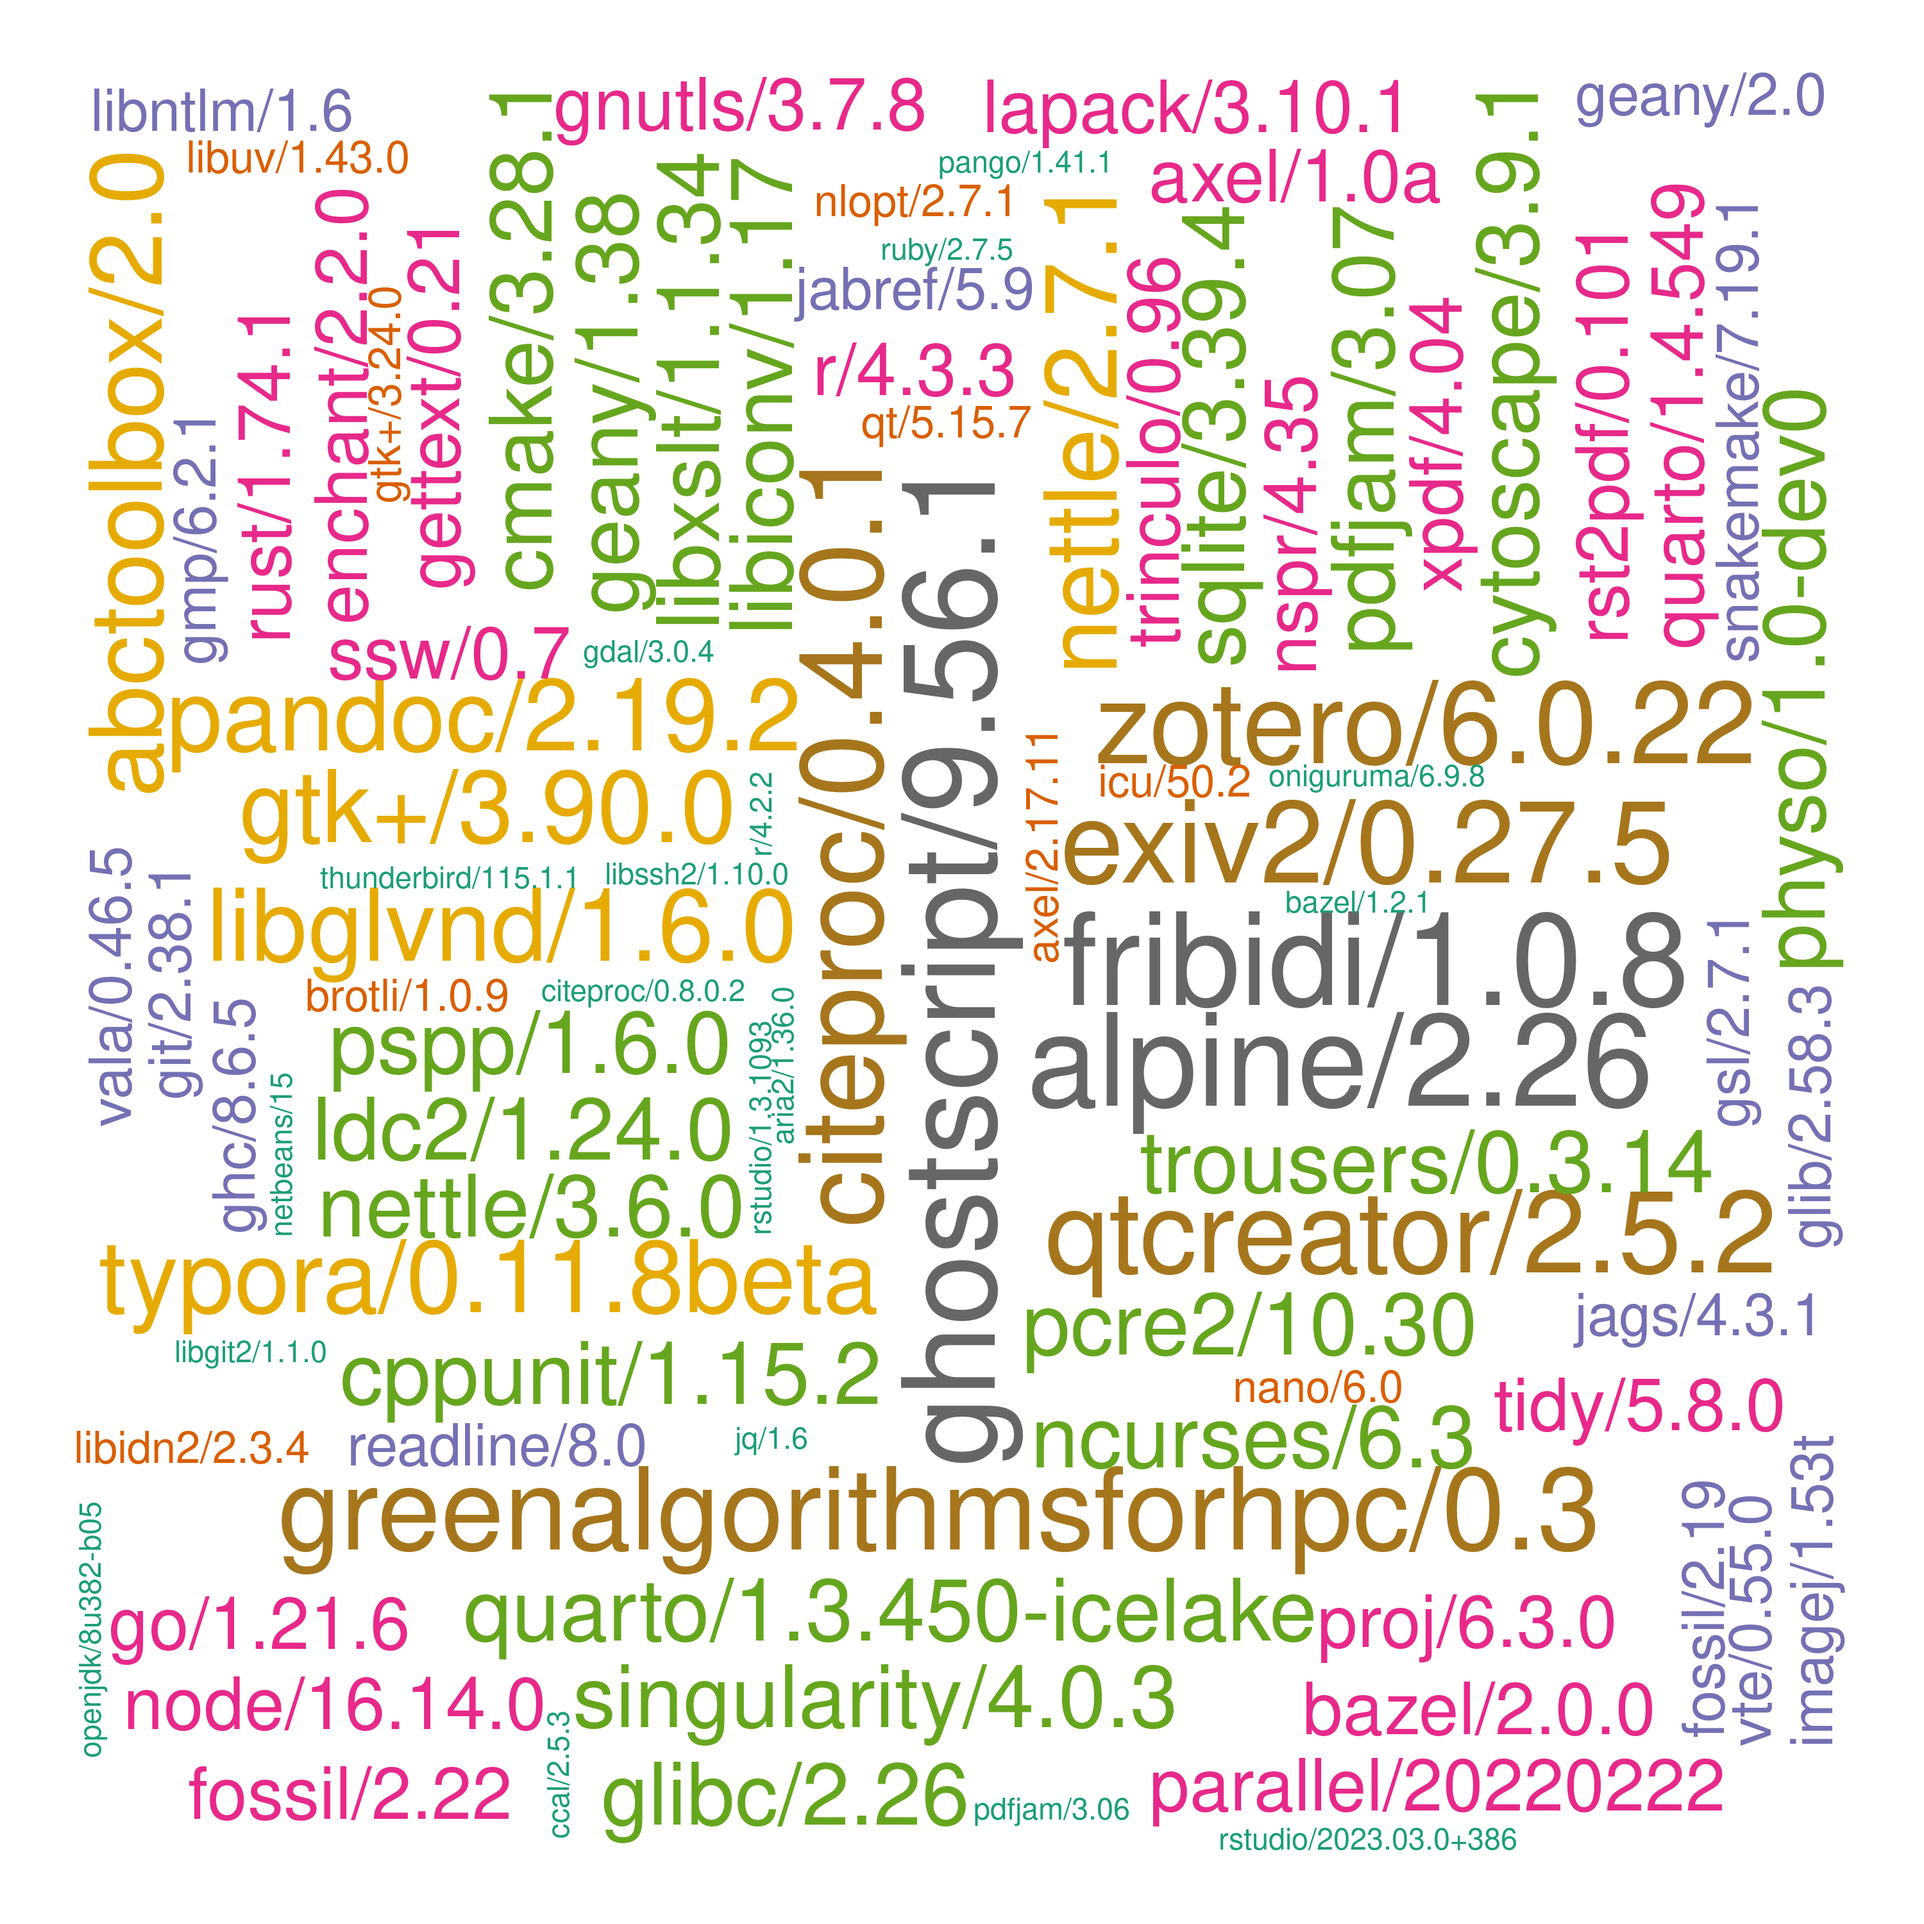
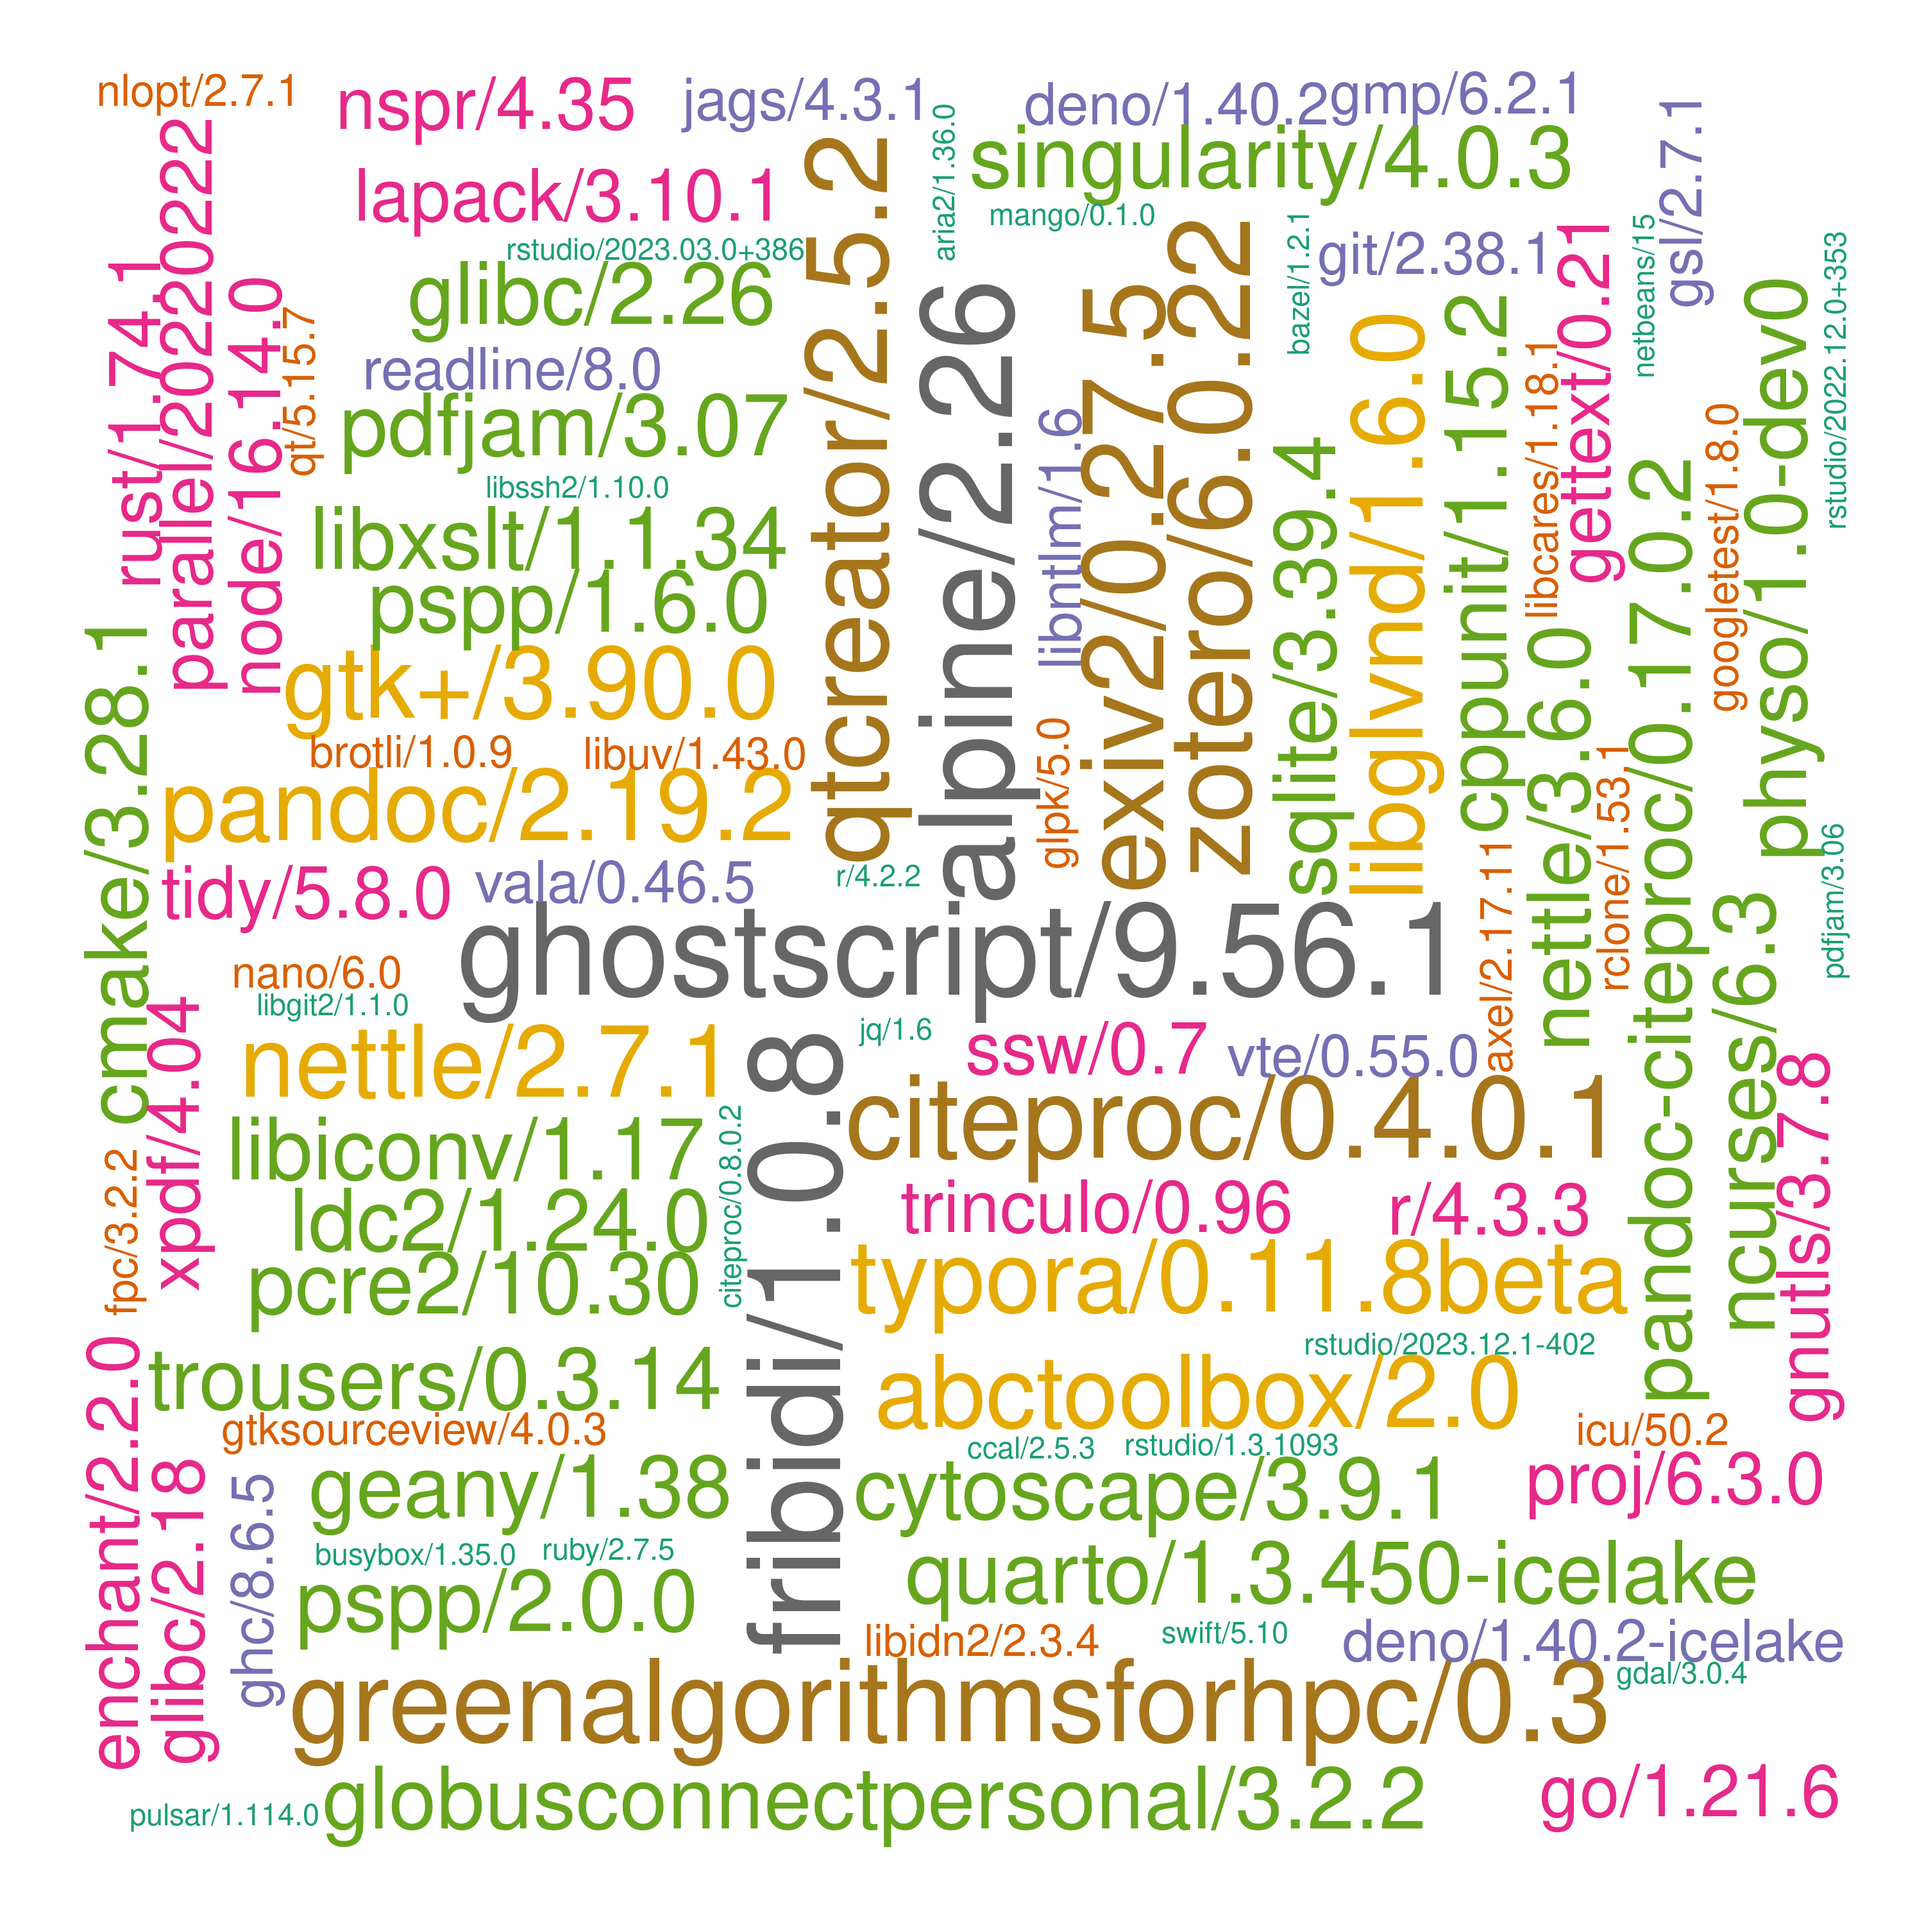
./

diff --git a/systems/ceuadmin.md b/systems/ceuadmin.md
@@ -8,7 +8,7 @@ The CEU software repository is here, **/usr/local/Cluster-Apps/ceuadmin/**.
 
 ![ceuadmin](ceuadmin.png)
 
-noting that the importance of software is purely random according to $$Poisson(N,\lambda)$$ where $$N=226$$, $$\lambda=3$$.
+noting that the importance of software is purely random according to $$Poisson(N,\lambda)$$ where $$N=227$$, $$\lambda=3$$.
 
 ## Entries
 
@@ -64,14 +64,14 @@ The current list is as follows,
 [185] "rst2pdf"               "rstudio"               "rtmpdump"              "ruby"
 [189] "rust"                  "samtools"              "Scala"                 "shapeit"
 [193] "singularity"           "SMR"                   "snakemake"             "SNP2HLA"
-[197] "snptest"               "spread-sheet-widget"   "sqlite"                "sra-tools"
-[201] "ssw"                   "STAR"                  "stata"                 "SurvivalAnalysis"
-[205] "SurvivalKit"           "Swift"                 "tabix"                 "tatami"
-[209] "thunderbird"           "tidy"                  "trinculo"              "trousers"
-[213] "Typora"                "unbound"               "vala"                  "VarScan"
-[217] "vcftools"              "VEGAS2"                "verifyBamID"           "VSCode"
-[221] "VSCodium"              "vte"                   "xpdf"                  "yaml-cpp"
-[225] "Zotero"                "zstd"
+[197] "snptest"               "spread-sheet-widget"   "spyder"                "sqlite"
+[201] "sra-tools"             "ssw"                   "STAR"                  "stata"
+[205] "SurvivalAnalysis"      "SurvivalKit"           "Swift"                 "tabix"
+[209] "tatami"                "thunderbird"           "tidy"                  "trinculo"
+[213] "trousers"              "Typora"                "unbound"               "vala"
+[217] "VarScan"               "vcftools"              "VEGAS2"                "verifyBamID"
+[221] "VSCode"                "VSCodium"              "vte"                   "xpdf"
+[225] "yaml-cpp"              "Zotero"                "zstd"
 ```
 
 These are wrapped up as :star::star::star: **[modules](https://modules.readthedocs.io/en/latest/index.html)** :star::star::star:.
